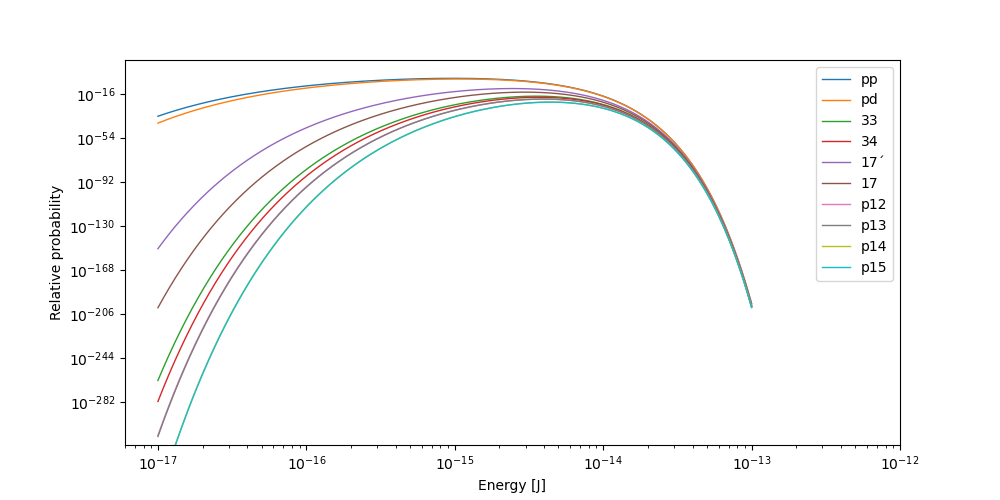
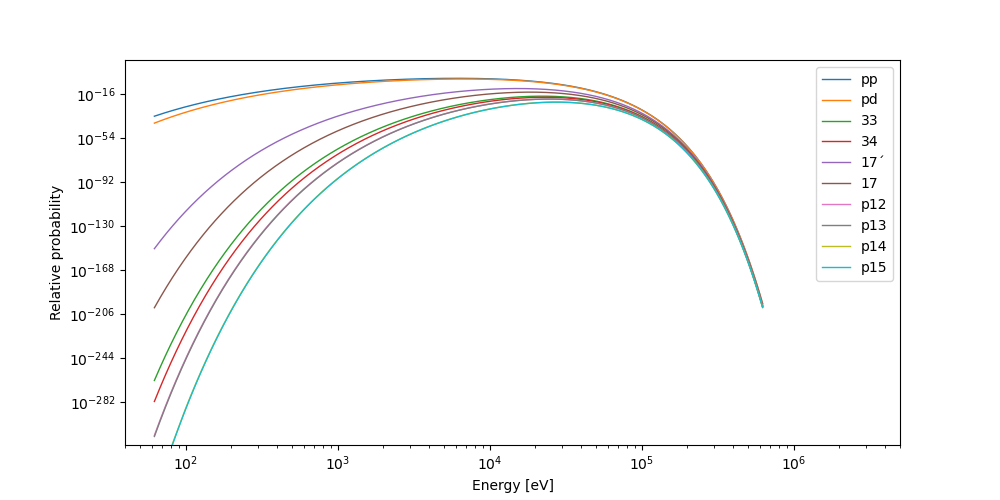
Changed units to eV for the Gamow plot

diff --git a/project-1/gamow.py b/project-1/gamow.py
@@ -15,7 +15,8 @@ Defining constants
 e = const.e 					# Elementary charge [C]
 h = const.h 					# Planck constant [J Hz^-1]
 pi = const.pi 					# Pi
-m_u = const.m_u
+eV = const.eV					# Electron volt [J]
+m_u = const.m_u					# Atomic mass unit [kg]
 k_B = const.k 					# Boltzmann constant [JK^-1]
 epsilon_0 = const.epsilon_0		# Vacuum permittivity
 
@@ -30,9 +31,17 @@ def lambda_sigma(m_i, m_k, Z_i, Z_k, energy):
 
 	m = m_i * m_k / (m_i + m_k)		# Reduced mass 
 
+	'''
+	The two exponentials from the proportionality function (lambda) and
+	the cross section of the tunneling effect (sigma).
+	'''
 	lmbda = np.exp(-energy / (k_B * T))
 	sigma = np.exp(-np.sqrt(m / (2 * energy)) * Z_i * Z_k * e**2 * pi / (epsilon_0 * h))
 
+	'''
+	The Gamow peak is found by the product of the proportionality
+	function and the the tunneling effect cross section.
+	'''
 	gamow = lmbda * sigma
 	idx = np.where([gamow == np.max(gamow)])[0][0]
 	peak = gamow[idx]
@@ -44,29 +53,29 @@ def lambda_sigma(m_i, m_k, Z_i, Z_k, energy):
 Defining element masses in atomic mass units
 '''
 H1 = 1.007825 * m_u			# Hydrogen mass in u 
-D2 = 2.014 * m_u				# Deuterium mass in u 
+D2 = 2.014 * m_u			# Deuterium mass in u 
 He3 = 3.016 * m_u 			# Helium-3 mass in u 
 He4 = 4.0026 * m_u			# Helium-4 mass in u
 Be7 = 7.01693 * m_u			# Beryllium-7 mass in u
-Li7 = 7.016004 * m_u			# Lithium-7 mass in u 
+Li7 = 7.016004 * m_u		# Lithium-7 mass in u 
 
 C12 = 12. * m_u				# Carbon-12 mass in u 
-C13 = 13.00336 * m_u			# Carbon-13 mass in u 
-N13 = 13.00574 * m_u			# Nitrogen-13 mass in u 
-N14 = 14.00307 * m_u			# Nitrogen-14 mass in u 
-N15 = 15.00109 * m_u			# Nitrogen-15 mass in u
+C13 = 13.00336 * m_u		# Carbon-13 mass in u 
+N13 = 13.00574 * m_u		# Nitrogen-13 mass in u 
+N14 = 14.00307 * m_u		# Nitrogen-14 mass in u 
+N15 = 15.00109 * m_u		# Nitrogen-15 mass in u
 
 '''
 Defining atomic numbers
 '''
-Z_H = 1 
-Z_He = 2 
-Z_Be = 4
-Z_Li = 3
+Z_H = 1 		# Hydrogen
+Z_He = 2 		# Helium
+Z_Be = 4 		# Beryllium
+Z_Li = 3 		# Lithium
 
-Z_C = 6
-Z_N = 7 
-Z_O = 8
+Z_C = 6 		# Carbon
+Z_N = 7 		# Nitrogen
+Z_O = 8 		# Oxygen
 
 '''
 Defining energy interval [10^-17, 10^-13] J
@@ -110,13 +119,13 @@ plt.figure(figsize=(10, 5))
 
 for i in range(10):
 
-	plt.plot(E, rel_prob[i, :], label=labels[i])
+	plt.plot(E / eV, rel_prob[i, :], label=labels[i])
 
-plt.xlabel('Energy [J]')
+plt.xlabel('Energy [eV]')
 plt.ylabel('Relative probability')
 plt.xscale('log')
 plt.yscale('log')
-plt.xlim([6e-18, 1e-12])
+plt.xlim([40, 5e6])
 
 plt.legend()
 plt.savefig('figures/gamow.pdf')

diff --git a/project-1/energy_production.py b/project-1/energy_production.py
@@ -64,7 +64,7 @@ class EnergyProduction:
 
 	########################################################################################################
 
-	def reaction_rates(self, temperature):
+	def proportionality_function(self, temperature):
 		'''
 		Function will take temperature in K as argument and return a dictionary
 		containing the energy rates (lambdas) for each reaction.
@@ -136,7 +136,7 @@ class EnergyProduction:
 		n_i = self.number_density(density)['n_p']		# Number density of protons
 		n_k = n_i
 		Q_i , Q_k = self.Q['pp'], self.Q['pd']			# Energy released by fusion of protons to deuterium and deuterium and proton to helium-3
-		lmbda = self.reaction_rates(temperature)['pp']	# Reaction rate for two protons
+		lmbda = self.proportionality_function(temperature)['pp']	# Reaction rate for two protons
 
 		r_ik = self.r(n_i, n_k, lmbda, density)
 		eps = r_ik * (Q_i + Q_k)
@@ -153,7 +153,7 @@ class EnergyProduction:
 		n_i = self.number_density(density)['n_32He']		# Number density of helium-3
 		n_k = n_i 
 		Q_ik = self.Q['33']									# Energy released by fusing two helium-3 to helium-4
-		lmbda = self.reaction_rates(temperature)['33']		# Reaction rate for two helium-3
+		lmbda = self.proportionality_function(temperature)['33']		# Reaction rate for two helium-3
 
 		r_ik = self.r(n_i, n_k, lmbda, density)
 		eps = r_ik * Q_ik
@@ -168,7 +168,7 @@ class EnergyProduction:
 		'''
 		Method to compute the energy production rate of the PP2 cycle
 		'''
-		lmbda = self.reaction_rates(temperature)
+		lmbda = self.proportionality_function(temperature)
 		n = self.number_density(density)
 
 		n_i = np.array([n['n_32He'], n['n_74Be'], n['n_73Li']])				# Number densities of helium-3, beryllium-7, and litium-7
@@ -201,7 +201,7 @@ class EnergyProduction:
 		'''
 		Method to compute the energy production rate of the PP3 cycle
 		'''
-		lmbda = self.reaction_rates(temperature)
+		lmbda = self.proportionality_function(temperature)
 		n = self.number_density(density)
 
 		n_i = np.array([n['n_32He'], n['n_74Be']])
@@ -229,7 +229,7 @@ class EnergyProduction:
 		'''
 
 		n = self.number_density(density)
-		lmbda_ik = self.reaction_rates(temperature)['p14']
+		lmbda_ik = self.proportionality_function(temperature)['p14']
 
 		n_i = n['n_147N']
 		n_k = n['n_p']
